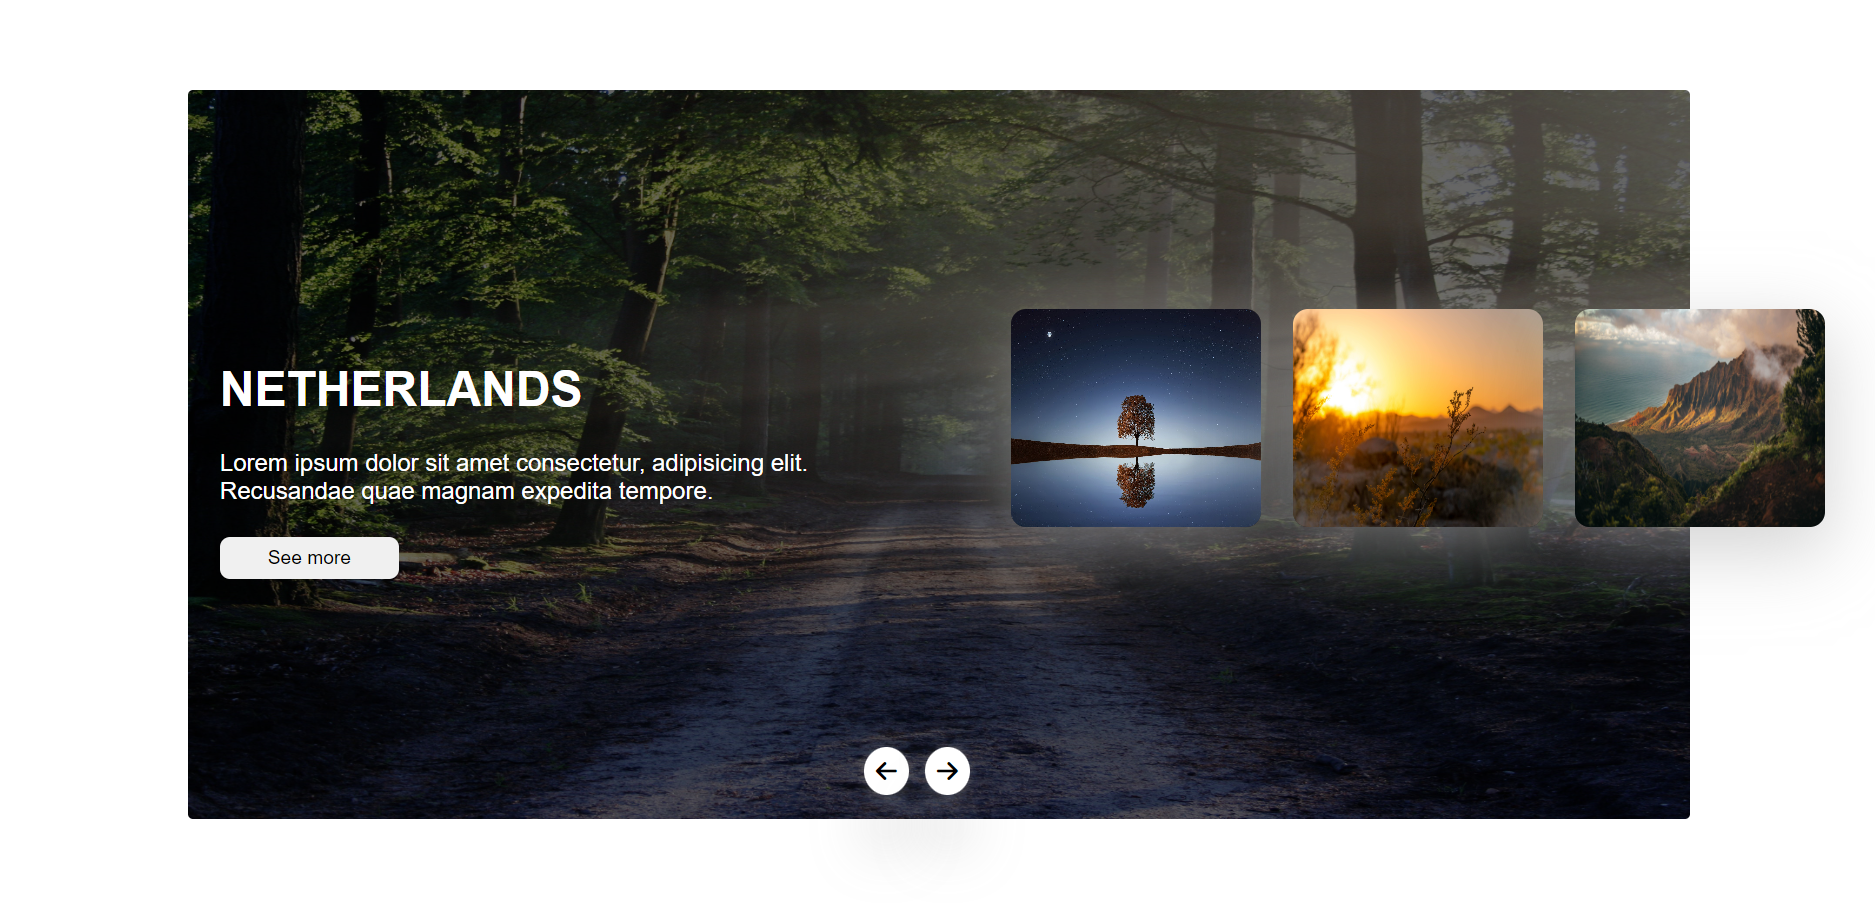
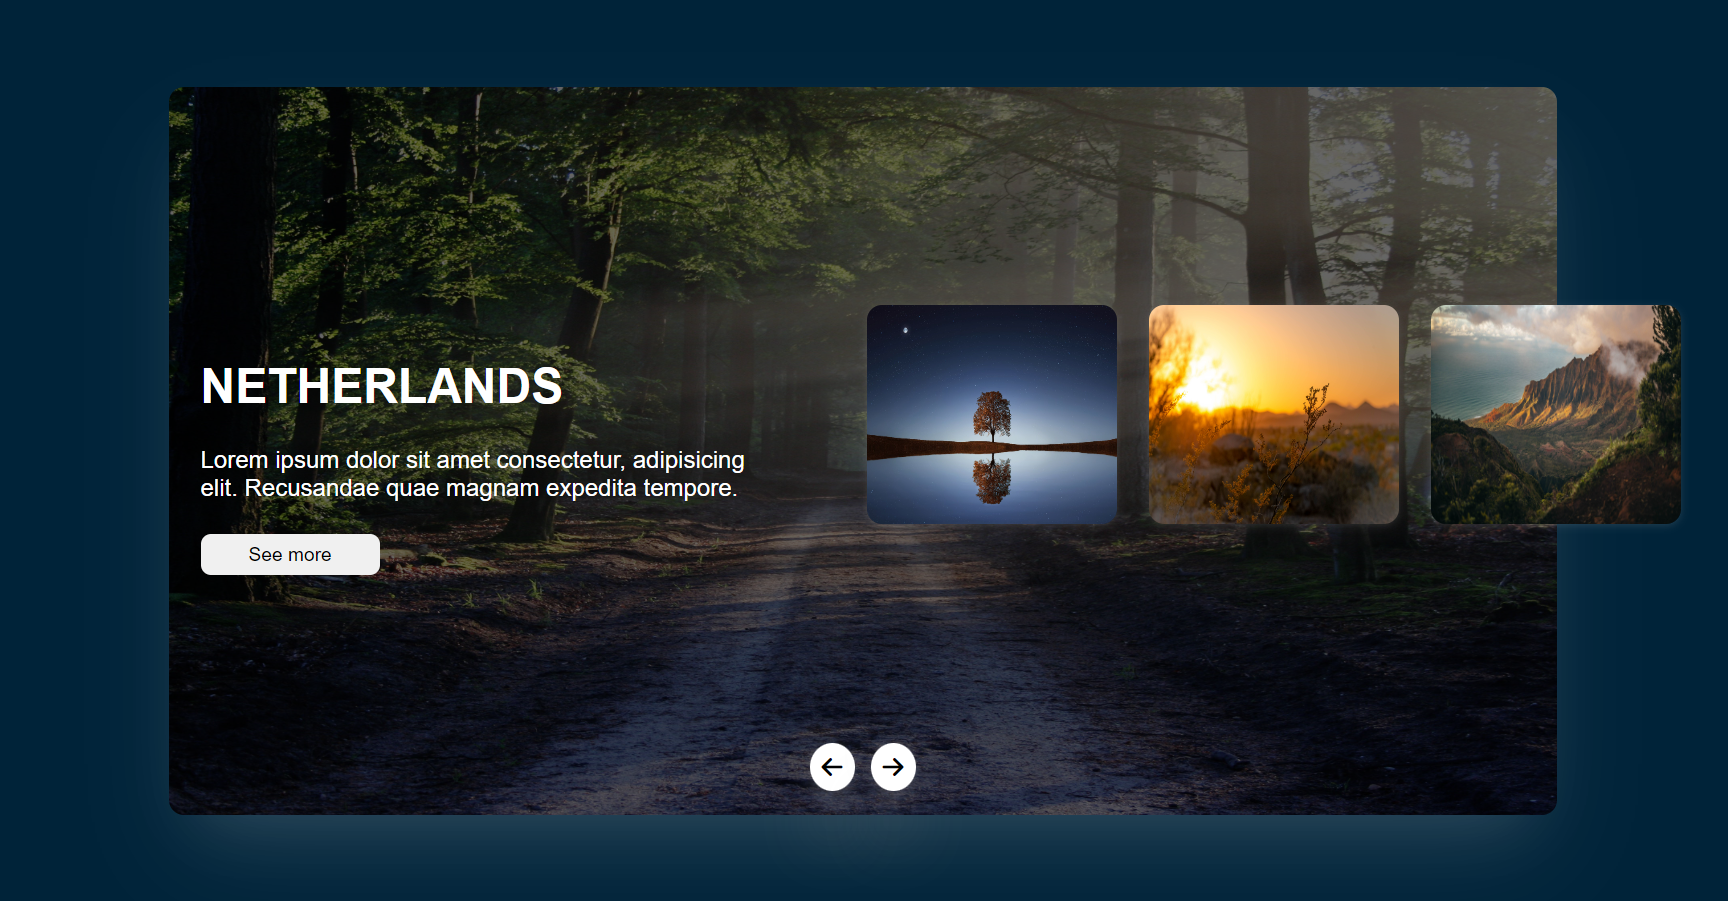
Add auto change slide feature

diff --git a/projects/Image-Gallery/index.js b/projects/Image-Gallery/index.js
@@ -9,6 +9,7 @@ const images = [
 ];
 
 let counter = 0;
+let autoChange;
 
 const container = document.getElementById("container");
 const heading = document.getElementById("heading");
@@ -18,7 +19,7 @@ const rightButton = document.querySelector("#right-button");
 let imageslider = document.querySelectorAll(".imageslider");
 const details = document.querySelectorAll(".details");
 
-rightButton.addEventListener("click", () => {
+const changeSlide = () => {
   imageslider = document.querySelectorAll(".imageslider");
 
   const slide = document.createElement("div");
@@ -56,9 +57,18 @@ rightButton.addEventListener("click", () => {
   if (counter > 4) {
     counter = 0;
   }
+};
+
+rightButton.addEventListener("click", () => {
+  clearInterval(autoChange);
+  changeSlide();
+  setTimeout(() => {
+    autoChange = setInterval(changeSlide, 3000);
+  }, 5000);
 });
 
 leftButton.addEventListener("click", () => {
+  clearInterval(autoChange);
   imageslider = document.querySelectorAll(".imageslider");
 
   const slide = document.createElement("div");
@@ -102,4 +112,10 @@ leftButton.addEventListener("click", () => {
   if (counter < 0) {
     counter = 4;
   }
+
+  setTimeout(() => {
+    autoChange = setInterval(changeSlide, 3000);
+  }, 5000);
 });
+
+autoChange = setInterval(changeSlide, 4000);

diff --git a/projects/Image-Gallery/style.css b/projects/Image-Gallery/style.css
@@ -10,7 +10,7 @@ body {
   display: grid;
   place-content: center;
   overflow-x: hidden;
-  background: #002339ec;
+  background: #002339;
   background-repeat: no-repeat;
 
   @media screen and (width <= 768px) {
